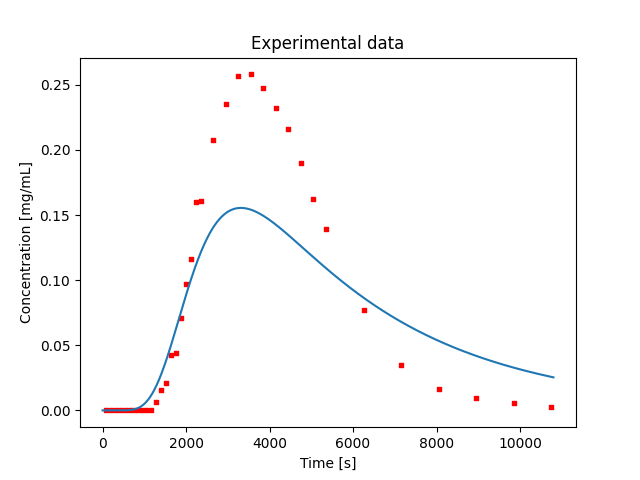
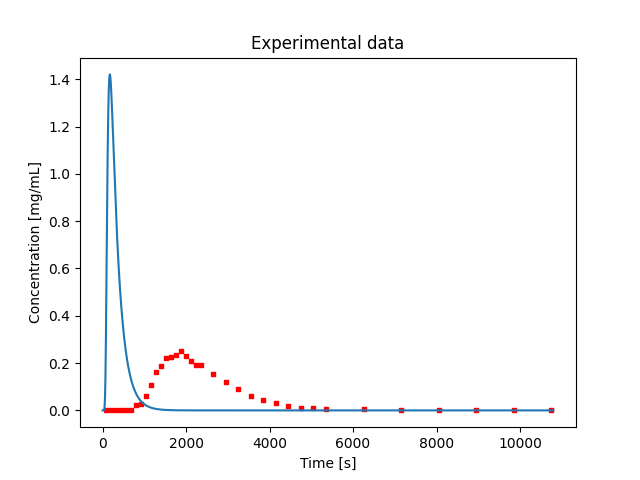
Double division of the loss fuction value by number of datapoints in chromatogram!!!

diff --git a/flatOptim/Optimizer_flat.py b/flatOptim/Optimizer_flat.py
@@ -77,16 +77,16 @@ max outlet concetration squared giving no-unit final value scaled by feed conc''
 # define initial guess and boundaries
 
 # Suc/Glu separation
-K_Suc, K_Suc_bounds = 1.046, (0.0001, 45.06)
-K_Glu, K_Glu_bounds = 2.926, (0.0001, 45.06)
+K_Suc, K_Suc_bounds = 1.0458, (0.0001, 45.06)
+K_Glu, K_Glu_bounds = 2.9256, (0.0001, 45.06)
 disperCoef1, disperCoef_bounds1 = 1, (1, 266500)
 initial_guess_lin = [K_Suc,K_Glu,disperCoef1]
 bounds_lin = [K_Suc_bounds,K_Glu_bounds,disperCoef_bounds1]
 
 # Suc/Glu separation
-KL_Suc, Q_Suc, KL_Suc_bounds, Q_Suc_bounds = 0.0487, 38.96, (0.006, 100000.0), (0.00001, 342.3)
-KL_Glu, Q_Glu, KL_Glu_bounds, Q_Glu_bounds = 0.1005, 39.00, (0.022, 100000.0), (0.00001, 180.2)
-disperCoef2, disperCoef_bounds2 = 9.7, (1.0, 266500)
+KL_Suc, Q_Suc, KL_Suc_bounds, Q_Suc_bounds = 0.06, 6.68, (0.008, 100000.0), (0.00001, 342.3)
+KL_Glu, Q_Glu, KL_Glu_bounds, Q_Glu_bounds = 0.14, 24.15, (0.029, 100000.0), (0.00001, 180.2)
+disperCoef2, disperCoef_bounds2 = 10.23, (1.0, 266500)
 initial_guess_nonlin = [KL_Suc, Q_Suc, KL_Glu, Q_Glu, disperCoef2]
 bounds_nonlin = [KL_Suc_bounds, Q_Suc_bounds, KL_Glu_bounds, Q_Glu_bounds, disperCoef_bounds2]
 
@@ -95,7 +95,7 @@ start_time = time.time()
 print('Starting optimization')
 
 # BEGINNING OF LINEAR CASE ------------------------------------------
-wrapper = LossFunctionWrapper(component_names, is_linear=True)
+'''wrapper = LossFunctionWrapper(component_names, is_linear=True)
 result = minimize(wrapper,
                   initial_guess_lin,
                   args=(component_names_all, flow_rates, diameters, lengths, feed_volumes, concentrations, chromatograms, uncertainties),
@@ -105,12 +105,12 @@ result = minimize(wrapper,
                           'xatol': 1e-1,
                           'fatol': 1e-3},
                   bounds=bounds_lin
-                  )
+                  )'''
 
 # END OF LINEAR CASE ------------------------------------------
 
 # BEGINNING OF NONLINEAR CASE (uncomment)------------------------------------------
-'''wrapper = LossFunctionWrapper(component_names, is_linear=False)
+wrapper = LossFunctionWrapper(component_names, is_linear=False)
 result = minimize(wrapper,
                   initial_guess_nonlin,
                   args=(component_names_all, flow_rates, diameters, lengths, feed_volumes, concentrations, chromatograms, uncertainties),
@@ -120,7 +120,7 @@ result = minimize(wrapper,
                           'xatol': 1e-2,
                           'fatol': 1e-4},
                   bounds=bounds_nonlin
-                  )'''
+                  )
 # END OF NONLINEAR CASE (uncomment)------------------------------------------
 
 # Calculate elapsed time
@@ -132,7 +132,7 @@ print(f"Optimization took {formatted_elapsed_time}.")
 
 optimized_params = result.x
 # Save the updated DataFrame to CSV
-wrapper.details_df.to_csv('optimization_run_lin_Corrected_LAST.csv', index=False)
+wrapper.details_df.to_csv('optimization_run_nonlin_LAST_CFLCorr.csv', index=False)
 
 #print('Plotting results')
 #plot_component_results_lin(component_names, optimized_params, component_names_all, flow_rates, diameters, lengths, feed_volumes, concentrations, chromatograms)

diff --git a/flatOptim/Sensitivity_analysis.py b/flatOptim/Sensitivity_analysis.py
@@ -134,7 +134,7 @@ path = 'C:/UserData/z004d8nt/Documents/VSCHT/001_Paper_JChA/Paper1_Data/Suc_Glu_
 experimentSet = operator_instance.Load_Experiment_Set(path)  #create object of the set of experiments
 experimentCluster = operator_instance.Cluster_By_Component(experimentSet).clusters  # creates new object where components are clustered together
 print('Starting preprocessing')
-experimentSet_preprocessed = operator_instance.Preprocess(experimentSet, False, False, False, 0.01)  # does preprocessing
+experimentSet_preprocessed = operator_instance.Preprocess(experimentSet, True, True, True, 0.01)  # does preprocessing
 print('Preprocessing done')
 experimentCluster_preprocessed = operator_instance.Cluster_By_Component(experimentSet_preprocessed).clusters  # creates new object where components are clustered together
 
@@ -142,27 +142,30 @@ experimentCluster_preprocessed = operator_instance.Cluster_By_Component(experime
 #chromatogram itself and information about the experiment setup, namely feed volume and concentration, column lenght,
 #column diameter, flow rate, and commentary'''
 
-# Define params and grid:
-porosity = 0.376
-B = [16.7, 16.7]  # Example Bodenstein numbers for two experiments
-langmuirConst_range = (0.1, 0.34)
-saturCoef_range = (11, 34)
-#steps_langmuirConst = 40
-#steps_saturCoef = 40
-steps_langmuirConst = 40
-steps_saturCoef = 100
-choice = 'Squares'  # Example loss function choice
-solver = 'Nonlin'
-factor = 3 #selects relativization method
-spacialDiff = 30
-timeDiff = 3000
-total_time = 10800
-output_file = 'Glu_noPP_convexity.xlsx'
-component_names = ['Glu']  # Name of the component to analyze
 
-# Perform sensitivity analysis and save results to Excel
-for comp_name in component_names:
-    sensitivity_results = sensitivity_analysis_to_excel(porosity,
+for Bo in [14]:
+    # Define params and grid:
+    porosity = 0.3752
+    #B = [7.4, 7.4]  # Example Bodenstein numbers for two experiments
+    B = [Bo, Bo]
+    langmuirConst_range = (0.1, 0.7)
+    saturCoef_range = (5, 45)
+    #steps_langmuirConst = 40
+    #steps_saturCoef = 40
+    steps_langmuirConst = 61
+    steps_saturCoef = 61
+    choice = 'Squares'  # Example loss function choice
+    solver = 'Nonlin'
+    factor = 3 #selects relativization method
+    spacialDiff = 30
+    timeDiff = 3000
+    total_time = 10800
+    output_file = 'Suc_heatmapping_Bo' + str(Bo) + '.xlsx'
+    component_names = ['Suc']  # Name of the component to analyze
+
+    # Perform sensitivity analysis and save results to Excel
+    for comp_name in component_names:
+        sensitivity_results = sensitivity_analysis_to_excel(porosity,
                                                     B,
                                                     langmuirConst_range,
                                                     saturCoef_range,

diff --git a/functions/singleLossFunctions/Single_Loss_Function_Squares.py b/functions/singleLossFunctions/Single_Loss_Function_Squares.py
@@ -47,12 +47,13 @@ def Single_Loss_Function_Squares(params, experimentComp, solver, factor, spacial
     elif factor == 7:
         errSum = errSum/((experimentComp.experiment.experimentCondition.feedVolume * experimentComp.feedConcentration)**2)
 
-    # Division square root of the number of elements
-    errSum = errSum / np.sqrt(len(df[experimentComp.name]))
-
     # WEIGHTING BY PREPROCESSING SCORE
     if experimentComp.preprocessingScore > 0:
         #print('NUMBER OF POINTS: ' + str(experimentComp.concentrationTime.shape[0]))
         errSum = errSum / (experimentComp.preprocessingScore * np.sqrt(experimentComp.concentrationTime.shape[0]))
+        print(experimentComp.concentrationTime.shape[0])
+    else:
+    # Division square root of the number of elements
+    errSum = errSum / np.sqrt(len(df[experimentComp.name]))
 
     return errSum

diff --git a/functions/solvers/Nonlin_Solver.py b/functions/solvers/Nonlin_Solver.py
@@ -303,12 +303,6 @@ def Nonlin_Solver(
         'Feed': feed
         })
 
-    # Debug: Print all function arguments
-    print("\n=== Nonlin_Solver: Input Parameters ===")
-    for key, value in locals().items():
-        print(f"{key}: {value}")
-    print("=======================================\n")
-
     '''# Save to Excel
     output_file = "genFit_feedConc" + str(round(feedConc)) + "_ disper" + str(round(disperCoef)) + "_flow" + str(round(flowRate)) + ".xlsx"
     sheet.to_excel(output_file, index=False)'''
